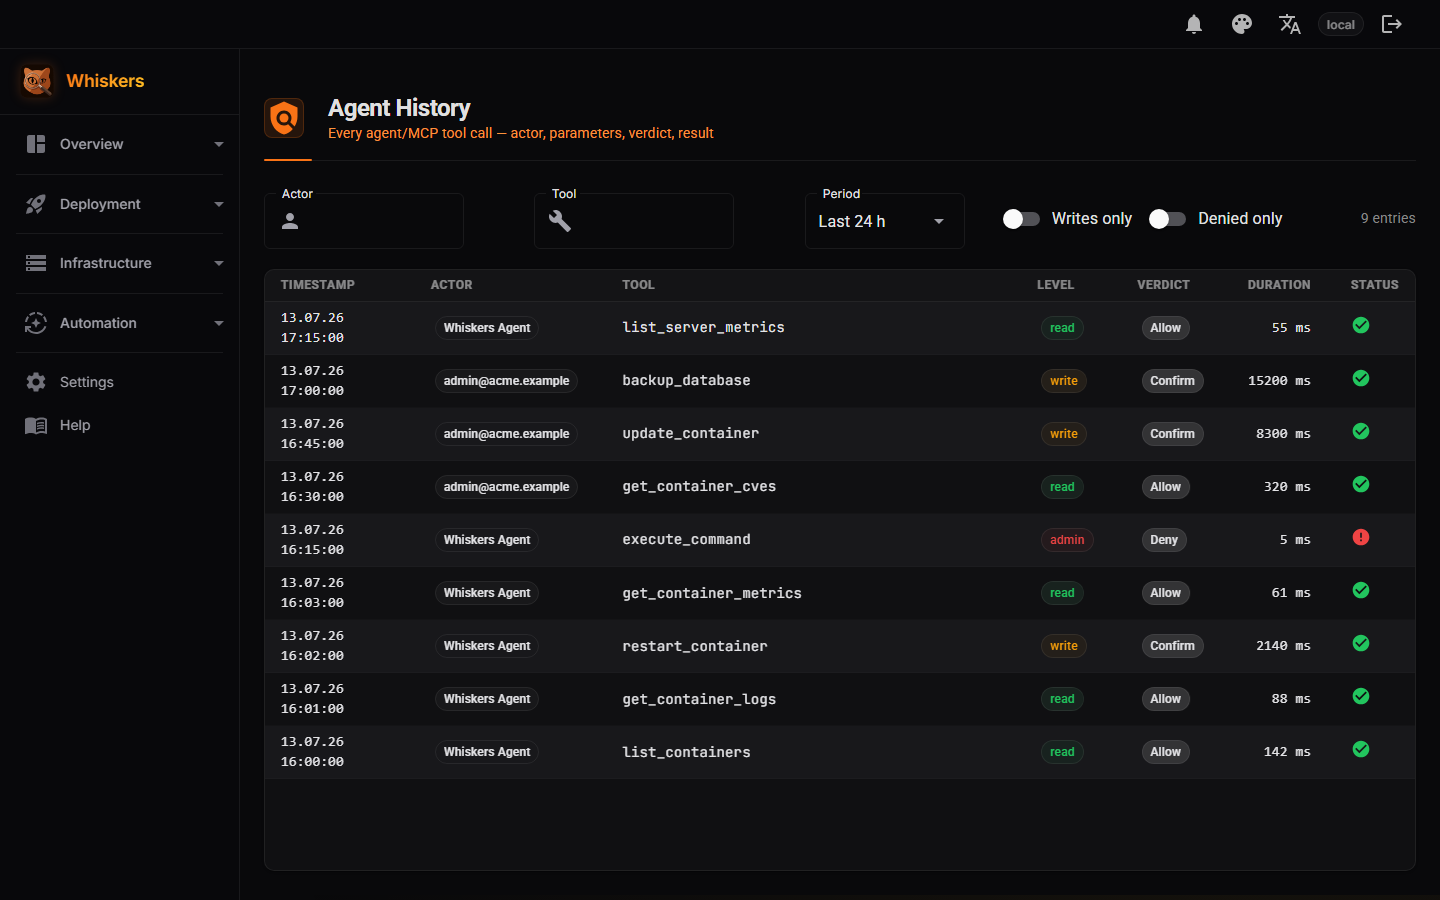
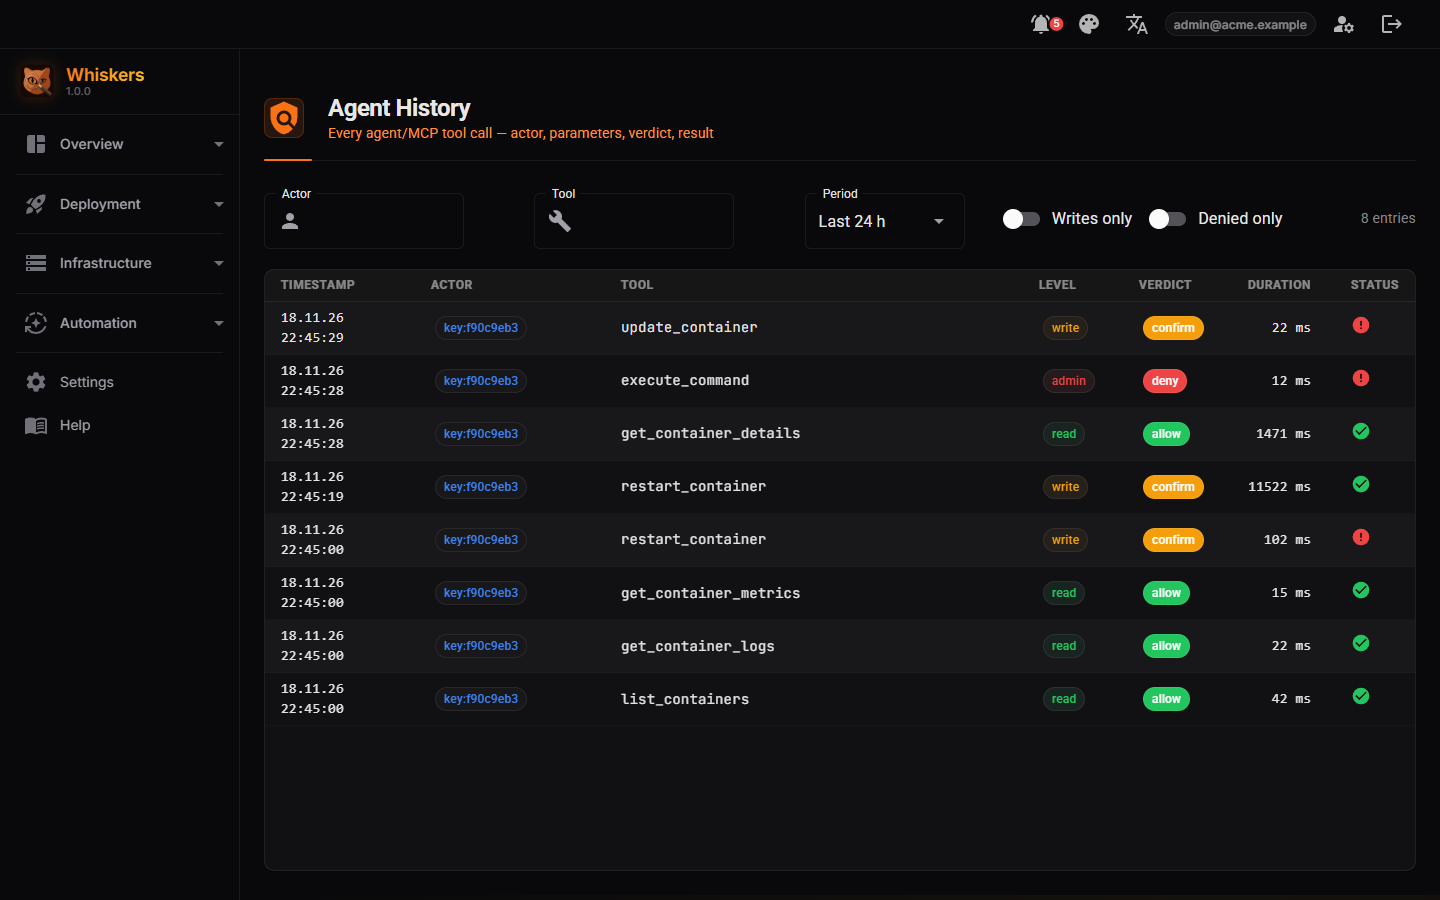
docs: recapture product screenshots for 1.0
Seven images at 1440x900, English UI, dark theme, captured against an
isolated demo Docker daemon. The governance history comes from real MCP
calls of a demo agent key, not from seeded rows.

- replaced: ai-operations, guardrails, agent-history, audit-log, dashboard
- new: approvals (pending write held by the Safe operations preset), topology
- screenshots.md: new reproduction steps, anonymization, open motifs
  (CVE monitor and deploy plan need a Linux host)

diff --git a/docs/product/screenshots.md b/docs/product/screenshots.md
@@ -5,39 +5,56 @@ Canonical product screenshots, mapped to the three pillars of the positioning
 in [docs/guide/screenshots.md](../guide/screenshots.md) and on the project website.
 
 Capture conventions: **1440×900**, device-scale 1, **English UI** (the product default), dark theme,
-against the anonymized demo dataset from [demo-script.md](demo-script.md).
+against an isolated demo Docker daemon that runs only demo containers.
 
 | File | Route | Pillar | Shows |
 |---|---|---|---|
-| `governance-guardrails.png` | `/guardrails` | Enforced governance | Code-enforced, non-bypassable policy at the tool boundary: read-only kill switch, max autonomous level, protected resources, forbidden argument patterns. |
-| `governance-agent-history.png` | `/agent-history` | Controlled access | Every agent/MCP tool call — actor, level (read/write/admin), verdict (Allow/Confirm/Deny), duration, status — including an admin call denied by policy. |
-| `governance-audit-log.png` | `/audit-log` | Complete accountability | The approval + execution trail: `approval.granted`, `guardrail.denied`, `container.restart`. |
-| `governance-ai-operations.png` | `/ai-operations` | Governed setup | Connect a client, mint a least-privilege read-only key, activate a starter guardrail preset. |
-| `dashboard-overview.png` | `/` | Reach | Container overview (total/running/stopped/unhealthy) + a connected Docker host with live CPU/memory charts. |
+| `governance-ai-operations.png` | `/ai-operations` | Governed setup | Connect a client, mint a least-privilege key, activate a starter guardrail preset. |
+| `governance-guardrails.png` | `/guardrails` | Enforced governance | Code-enforced policy at the tool boundary: read-only kill switch, max autonomous level, protected resources, forbidden argument patterns. |
+| `governance-approvals.png` | `/approvals` | Controlled access | A *pending* `update_container` (write) from the `Demo agent` key, held by the *Safe operations* preset, with risk, target and redacted parameters; below it the approved `restart_container`. |
+| `governance-agent-history.png` | `/agent-history` | Controlled access | Every MCP tool call — actor, level (read/write/admin), verdict (Allow/Confirm/Deny), duration, status — including an admin call denied by policy. |
+| `governance-audit-log.png` | `/audit-log` | Complete accountability | The approval + execution trail: approval requested/granted, guardrail denied, container restarted. |
+| `dashboard-overview.png` | `/` | Reach | Container overview (total/running/stopped/unhealthy) and the expanded summary of the local Docker host. |
+| `topology.png` | `/topology` | Reach | The containers of the local host as a graph. |
 
 ## Reproducing
 
-1. Seed the demo dataset and boot the app — see [demo-script.md](demo-script.md).
-2. Set the UI language to English via the top-right switcher.
-3. For the static pages (`/guardrails`, `/agent-history`, `/audit-log`, `/ai-operations`), a
-   server-rendered capture at 1440×900 is sufficient — Blazor Server prerenders the content.
-4. For the **dashboard**, a live circuit is needed for the host to report as connected, so drive a
-   real browser (the shipped headless Chrome via CDP works): navigate to `/`, wait for the local host
-   to show connected, expand its summary panel, and capture the top region. The per-container list is
-   **not** captured — it would show real container names on the capture host.
+The history on these images is not seeded: it is produced by real MCP calls against a fresh instance,
+so every row went through the guardrails exactly as it would in production.
+
+1. **Demo Docker daemon.** Start a throwaway `docker:29-dind` container with its API on
+   `tcp://127.0.0.1:23750` and load demo images into it (`nginx:alpine`, `busybox`, `postgres:17-alpine`,
+   `alpine`). Create the containers `web`, `cache`, `postgres`, `worker` and `payments-api`, the last one
+   with a healthcheck that always fails. Never point a capture instance at a daemon that runs anything
+   else.
+2. **Fresh instance.** Boot Whiskers with an empty `WHISKERS_DATA_DIR`, `Docker__SocketPath` set to the
+   demo daemon, and a seeded local admin (`WHISKERS_ADMIN_EMAIL=admin@acme.example`,
+   `WHISKERS_ADMIN_PASSWORD_FILE`, `VAULT_KEY_FILE`, all throwaway).
+3. **Browser.** Drive headless Chrome over CDP with the viewport fixed at 1440×900, device-scale 1 and
+   `prefers-color-scheme: dark`. Log in as the admin.
+4. **Story**, in this order:
+   1. Capture `/ai-operations`, then activate the *Safe operations* preset.
+   2. Settings → MCP permissions: create the key `Demo agent` (level Admin; the preset decides what runs).
+   3. With that key over `/mcp`: `list_containers`, `get_container_logs` and `get_container_metrics` for
+      `payments-api` (read, allowed), then `restart_container` (write, held for confirmation).
+   4. Approve it under `/approvals`, call `restart_container` again (runs), then
+      `get_container_details`.
+   5. `execute_command` with `docker system prune -af --volumes` (admin, denied), then
+      `update_container` for `web` (write, left pending).
+5. Capture `/approvals`, `/agent-history`, `/audit-log`, `/guardrails`, `/topology`, and `/` with the
+   local host's summary expanded.
 
 ## Anonymization
 
-- Governance history is fully synthetic (`Whiskers Agent`, `admin@acme.example`, `prod-eu-*`,
-  `staging-1`, `payments-api`, `orders`, `web`). No real hosts, users or secrets.
-- The dashboard shows only the connected-host **summary** (OS / CPU / memory / charts). Never capture
-  the container list on a machine that also runs unrelated containers.
+- Only demo actors and resources appear: `Demo agent`, `admin@acme.example`, `local`, and the five demo
+  containers. No real hosts, users or secrets.
+- The host summary shows the capture machine's kernel and the demo daemon's container ID as hostname;
+  neither identifies real infrastructure.
 - Re-check every image for real hostnames, IPs, emails or tokens before committing.
 
 ## Not yet captured
 
-- **Live approval card** (a *pending* confirmation) — needs a real agent run against a configured LLM
-  provider. The approval flow is currently evidenced through Agent History + Audit Log instead.
+- **CVE monitor** with findings and the **deploy / exposure plan** — both run host commands (`nsenter`,
+  the deployment directory) and need Whiskers on a Linux host, e.g. the container image.
+- The **second-approver** rule on a pending approval (the switch is on `/guardrails`, below the fold).
 - **Light-theme variants** and a short **demo video** of the full hero loop.
-- A clean **per-container list** view (running-only), which needs a capture host with only demo
-  containers present.

diff --git a/docs/guide/screenshots.md b/docs/guide/screenshots.md
@@ -1,6 +1,6 @@
 # Screenshots
 
-Captured against an anonymized demo dataset. How each image is reproduced: [product/screenshots.md](../product/screenshots.md);
+Captured against an isolated demo Docker daemon; the history comes from real MCP calls of a demo agent. How each image is reproduced: [product/screenshots.md](../product/screenshots.md);
 the scripted walkthrough: [product/demo-script.md](../product/demo-script.md). The in-app handbook (*Help*) has screenshots
 for every area.
 
@@ -8,6 +8,11 @@ for every area.
 confirmation, protected resources, and forbidden argument patterns.
 
 ![Guardrails: a code-enforced policy with a read-only kill switch, maximum autonomous level, protected resources and forbidden argument patterns](../product/screenshots/governance-guardrails.png)
+
+**Approvals.** A write the active preset holds back: the agent waits until a person approves or rejects it. Risk,
+target and the (redacted) parameters are shown before the decision.
+
+![Approvals: a pending update_container request from the Demo agent key, held by the Safe operations preset, with Approve and Reject; below it an approved restart_container](../product/screenshots/governance-approvals.png)
 
 **Agent History.** Every agent/MCP tool call, with actor, privilege level (read / write / admin), the guardrail verdict
 (Allow / Confirm / Deny), duration and outcome.
@@ -24,6 +29,10 @@ resulting change.
 
 ![Secure AI Operations onboarding: connect a client, create a read-only key, choose a starter guardrail preset](../product/screenshots/governance-ai-operations.png)
 
-**Dashboard.** Status across Docker hosts and Kubernetes workloads, with live host metrics.
+**Dashboard.** Status across Docker hosts and Kubernetes workloads, with a summary per host.
 
-![Container overview dashboard: total/running/stopped/unhealthy counts and a connected Docker host with live CPU and memory charts](../product/screenshots/dashboard-overview.png)
+![Container overview dashboard: total/running/stopped/unhealthy counts and the expanded summary of the local Docker host](../product/screenshots/dashboard-overview.png)
+
+**Topology.** The containers of a host as a graph.
+
+![Topology: the five demo containers of the local host as nodes](../product/screenshots/topology.png)
